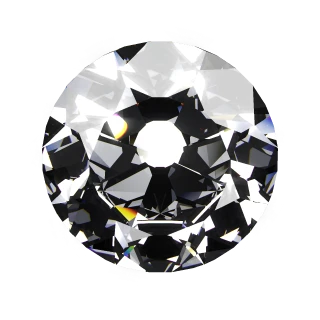
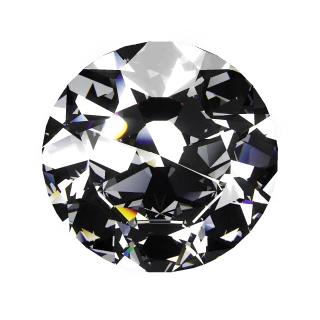
ボスの HP を自機の強さに合わせる／ダイヤモンドの中央の白い丸を消す (#247)
- ボスの HP に、その時刻にふつうに育てた強さとの比（の平方根）を 0.8〜5 倍で掛ける（bossPowerMul）。
  育ちきったデータでボスが一瞬で溶け、始めたばかりの人には硬すぎることがあったため。BOSS モード・トレーニング・CHAOS は除く
- ダイヤモンドだけ照明の大きな箱を高さ交互に置き、テーブルの真ん中に丸く写り込む白を消した（アイコンを書き出し直し）

Claude-Session: https://claude.ai/code/session_01HLzaxARq65NVeRUuTpyAwe

diff --git a/js/gem-gl.js b/js/gem-gl.js
@@ -12,11 +12,11 @@ import { imgUrl } from './util.js';
 // 見た目の数値。mode：trace（透明）・cab（カボション）・facet（不透明なカット面）・tumble（丸く磨いた石）
 // t：長さ 1 進んだときに残る光の割合（RGB）、d：濃さ、pleo：横向きに進むときの色（多色性）、bi：バイカラーのもう一方の色
 // fog・fogD：乳白（中で散る光の色と濃さ）、kind：シェーダーの石の番号、ri：屈折率（不透明な石）
-// exp・fire：その石だけの明るさ・ファイア（省くと 1.2・1.6）、spin0：置く向き（度。旧アイコンの向きに合わせる）、spark：小さく鋭い照明（分散の強い石）、fill：照明のあいだの暗い空の明るさの倍率（中が黒く沈む石の地の色を見せる）
+// env：その石だけの照明（ENVS の名前）。exp・fire：その石だけの明るさ・ファイア（省くと 1.2・1.6）、spin0：置く向き（度。旧アイコンの向きに合わせる）、spark：小さく鋭い照明（分散の強い石）、fill：照明のあいだの暗い空の明るさの倍率（中が黒く沈む石の地の色を見せる）
 const T = (cut, ior, disp, t, d, ex) => ({ mode: 'trace', cut, ior, disp, t, d, ...ex });
 const C = (cut, kind, ri) => ({ mode: 'cab', cut, kind, ri });
 export const GEM_LOOK = {
-  diamond: T('brilliant', 2.42, 0.044, [0.98, 0.985, 1.0], 1, { exp: 0.6, fire: 0.7, spark: true }),
+  diamond: T('brilliant', 2.42, 0.044, [0.98, 0.985, 1.0], 1, { exp: 0.6, fire: 0.7, spark: true, env: 'diamond' }),
   topaz: T('brilliant', 1.62, 0.014, [1.0, 0.7, 0.12], 1.0),
   ruby: T('oval', 1.77, 0.018, [0.95, 0.07, 0.2], 1.2),
   sapphire: T('oval', 1.77, 0.018, [0.12, 0.25, 0.95], 1.2),
@@ -198,6 +198,9 @@ const ring = (n, el, r, I, off = 0) => Array.from({ length: n }, (_, i) => ({ az
 const ENV_FACET = { L: lightsOf([...ring(6, 42, 13, 5, 15), ...ring(12, 68, 2.6, 30, 7), ...ring(4, 18, 9, 3, 40)], 1.3), sky0: 0.016, sky1: 0.04, floor: 0.035, head: 16 };
 // 分散の強い石（spark）：小さな強い光をもっと小さく鋭くする（明るさの合計は同じ）。光が波長ごとに分かれて、ファイアが虹色に見える
 const ENV_SPARK = { ...ENV_FACET, L: lightsOf([...ring(6, 42, 13, 5, 15), ...ring(12, 68, 0.6, 565, 7), ...ring(4, 18, 9, 3, 40)], 1.3) };
+// ダイヤモンド：大きな箱を高さ交互に置く（6 つを同じ高さに並べると、テーブルの真ん中に箱が丸く白く写り込むため）
+const ENV_DIAMOND = { ...ENV_SPARK, L: lightsOf([...ring(3, 50, 13, 5, 15), ...ring(3, 36, 13, 5, 75), ...ring(12, 68, 0.6, 565, 7), ...ring(4, 18, 9, 3, 40)], 1.3) };
+const ENVS = { diamond: ENV_DIAMOND };
 const ENV_CAB = { L: lightsOf([{ az: 135, el: 50, r: 15, I: 5.5 }, { az: 35, el: 36, r: 9, I: 3 }, { az: 250, el: 28, r: 8, I: 2.4 }, { az: 200, el: 18, r: 10, I: 1.2 }], 1.7), sky0: 0.03, sky1: 0.08, floor: 0.015, head: 8 };
 
 // ---------------------------------------------------------------- シェーダー
@@ -611,7 +614,7 @@ function createRenderer(canvas) {
   const load = (id) => {
     const g = GEM_LOOK[id] || GEM_LOOK.ruby;
     gl.useProgram(prog);
-    const E = g.mode === 'cab' || g.mode === 'tumble' ? ENV_CAB : g.spark ? ENV_SPARK : ENV_FACET;
+    const E = ENVS[g.env] || (g.mode === 'cab' || g.mode === 'tumble' ? ENV_CAB : g.spark ? ENV_SPARK : ENV_FACET);
     const L = new Float32Array(24 * 4), Lc = new Float32Array(24 * 2);
     E.L.forEach((l, i) => { L.set([...l.dir, l.I], i * 4); Lc.set([l.c0, l.c1], i * 2); });
     gl.uniform4fv(uni.uL, L);

diff --git a/js/game.js b/js/game.js
@@ -94,6 +94,8 @@ export const CHAOS = 5;
 const BOSS_TRASH = 0.5;
 // 画面の外の敵へのダメージの倍率（damage）
 const OFFSCREEN_DMG = 0.5;
+// ボスの HP の自機の強さによる倍率の下限と上限（bossPowerMul）
+const BOSS_POWER = [0.8, 5];
 // 賢者の石の完成の演出の長さ（秒。ウロボロスの撃破からクリア画面まで）
 const STONE_FX = 4;
 const BREAK_NEED = 0.42;
@@ -324,6 +326,14 @@ export class Game {
     for (const w of this.weapons) w.s = weaponStats(this, w);
     // 雑魚の硬さを自機の強さに少しだけ連動させる（強さの平方根。完全には連動させず、育てた実感は残す）
     this.trashMul = Math.min(10, Math.max(1, Math.sqrt(this.estPower() / 3500)));
+  }
+
+  // ボスの HP を自機の強さに合わせる：その時刻にふつうに育てた強さ（工房を半分ほど。tools/test/sim.js の estPower の中央値）との比の平方根。
+  // 育ちきっていればボスは硬く、育っていなければ少し柔らかく（BOSS_POWER の範囲）。BOSS モード・トレーニング・CHAOS は掛けない
+  bossPowerMul() {
+    if (this.rush || this.train || this.chaos) return 1;
+    const ref = 2400 * Math.exp(Math.min(this.progress(), 900) / 214);
+    return Math.max(BOSS_POWER[0], Math.min(BOSS_POWER[1], Math.sqrt(this.estPower() / ref)));
   }
 
   // 自機の火力の目安（武器 1 つの群れへの DPS の目安：Lv1 約 300、Lv4 約 700、Lv8 約 6500、進化後 約 20000。wbench.js の計測とほぼ同じ桁）
@@ -976,7 +986,7 @@ export class Game {
     const st = this.rushHome || this.stage;
     // CHAOS は HP と攻撃力を CHAOS 倍（地形の小物は除く）
     const cm = this.chaos && !d.prop ? CHAOS : 1;
-    const mul = cm * (d.boss ? BOSS_HP * (o.mul || 1) * (1 + Math.max(0, this.level - 20) * 0.01) * st.hp * this.heatM.hp
+    const mul = cm * (d.boss ? BOSS_HP * (o.mul || 1) * (1 + Math.max(0, this.level - 20) * 0.01) * this.bossPowerMul() * st.hp * this.heatM.hp
       : d.prop ? 1 : this.hpScale() * (elite ? 2 : 1) * (o.soft || elite || d.ai === 'thief' ? 1 : this.trashMul || 1));
     // 敵の攻撃力（dmg）：雑魚・エリート 2 倍、ボス 1.5 倍（弾・レーザーもこれをもとにする）
     const e = {

diff --git a/js/howto.js b/js/howto.js
@@ -144,6 +144,7 @@ export function helpTopics() {
           [null, '7:00', '最終ボス（STAGE 5 は 8:00）。倒すとクリアです。'],
         ] },
         { h: 'ブレイク', p: `ボスに攻撃を当てると、HP バーの下のゲージがたまります。満タンになるとボスが ${BREAK_TIME} 秒間ダウンし、動かず攻撃もせず、受けるダメージが 2 倍になります。近くで戦うほど早くたまります。` },
+        { h: 'ボスの硬さ', p: 'ボスの HP は、出てきたときの自機の強さに合わせて変わります。よく育っているほど硬く、育ちきっていないときは少し柔らかくなります（BOSS モード・CHAOS は変わりません）。' },
         { h: 'ボスを倒すと', p: '画面の敵の弾が消え、宝箱・経験値・コインを落とします。2 体目以降の中ボスは、秘宝の宝箱も落とします。' },
         { h: 'クリアすると', p: '拾いきれなかったコイン・原石・経験値と、開けていない宝箱のコインは自動で回収されます。初めてのクリアではボーナスのコインも入ります。' },
       ],

diff --git a/sw.js b/sw.js
@@ -1,5 +1,5 @@
 // オフラインでも あそべるように キャッシュする
-const CACHE = 'jewel-survivor-v226';
+const CACHE = 'jewel-survivor-v227';
 const ASSETS = [
   './', './index.html', './css/style.css', './manifest.webmanifest',
   './js/main.js', './js/game.js', './js/weapons.js', './js/data.js', './js/render.js', './js/fx.js',

diff --git a/CLAUDE.md b/CLAUDE.md
@@ -200,7 +200,7 @@
 - ステージの難しさは倍率（stages.js の `hp`・`dmg`・`bm`）で素直に決める。
 - ギミックは主張させる（ユーザーの希望。控えめだとずっと同じことをしているように感じる）。第1章のように、移動の仕方が変わる地形と、旗で知らせる画面を巻き込む出来事の 2 段構えにし、危ないもの（自機も雑魚も巻き込む）と得するものを両方置く。危ないものは必ず円か線で予告する。ギミックの部品（hazards2.js などの kind ごとのオブジェクト）は init・terrain（区画ごとの地形）・update・ground／objects／overlay／screen（描画）と、補正の speedMul・xpMul・dmgMul・fireMul（武器の時間の進み）・spawnMul（雑魚の数とペース）、壁の collide・blocks・rayCut、雑魚の撃破 onKill、自動プレイの回避 avoid。
 - 雑魚の HP：時間の伸び（hpScale）× 自機の強さ（trashMul）× ステージ × ヒート。大群・シーフ・エリートは trashMul の対象外。「終盤の雑魚が序盤より少し相対的に弱い」くらいを保つ。
-- ボスの HP：data.js の `hp` × `BOSS_HP` × ステージ × ヒート ×（自機のレベル 20 超で少し硬く）。ボス戦らしい手応えを優先して高めにしてある（ユーザーの要望）。複数のステージで共通のボスは `bm` で補正する。
+- ボスの HP：data.js の `hp` × `BOSS_HP` × ステージ × ヒート ×（自機のレベル 20 超で少し硬く）× 自機の強さ（game.js の bossPowerMul：その時刻にふつうに育てた強さ（sim.js の工房半分の estPower）との比の平方根を `BOSS_POWER` の 0.8〜5 倍に収める。育ちきったデータでボスが一瞬で溶け、始めたばかりの人には硬すぎることがあったため。BOSS モード・トレーニング・CHAOS は掛けない）。ボス戦らしい手応えを優先して高めにしてある（ユーザーの要望）。複数のステージで共通のボスは `bm` で補正する。
 - 敵の攻撃力は時間で伸びる（spawnEnemy の progress）。ボス戦の間は雑魚の数とペースを減らす（`BOSS_TRASH`）。きついと言われたら、基本値ではなく時間の伸びを緩めるのが第一候補。
 - 武器：各レベルで「群れ」と「単体」の潜在火力の総合点をそろえる（wbench.js）。火力以外の強みがある武器は目標を下げてある。進化の相方が攻撃系のガーネット・オパール・ダイヤモンド・ラブラドライトが一段上なのは仕様（ぶっ壊れ枠）。調整は `dmgMul`・`lowBoost`・`evo.mul`。
 - ボットは人間より下手（特にボスへの当て方）。生き残りやすさは遊んだ感想で合わせる。
@@ -337,7 +337,7 @@
 ## 6. リリース手順
 
 1. 作業ブランチはセッションで指定されたもの。main に取り込むときに origin/main から作り直すので、先に `git status` で未コミットの新規ファイルを確認する。
-2. sw.js の `CACHE` の版数を 1 つ上げる（現在 `jewel-survivor-v226`）。新しいファイルは `ASSETS` にも足す。
+2. sw.js の `CACHE` の版数を 1 つ上げる（現在 `jewel-survivor-v227`）。新しいファイルは `ASSETS` にも足す。
 3. `node --check` と、変えた箇所だけのテスト。
 4. 取り込み：
    ```sh
